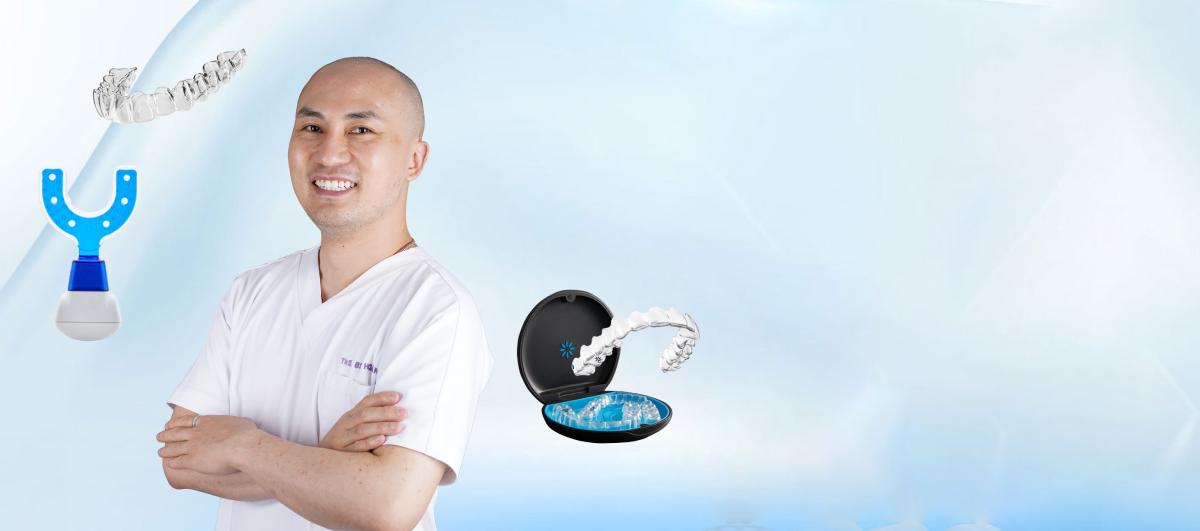
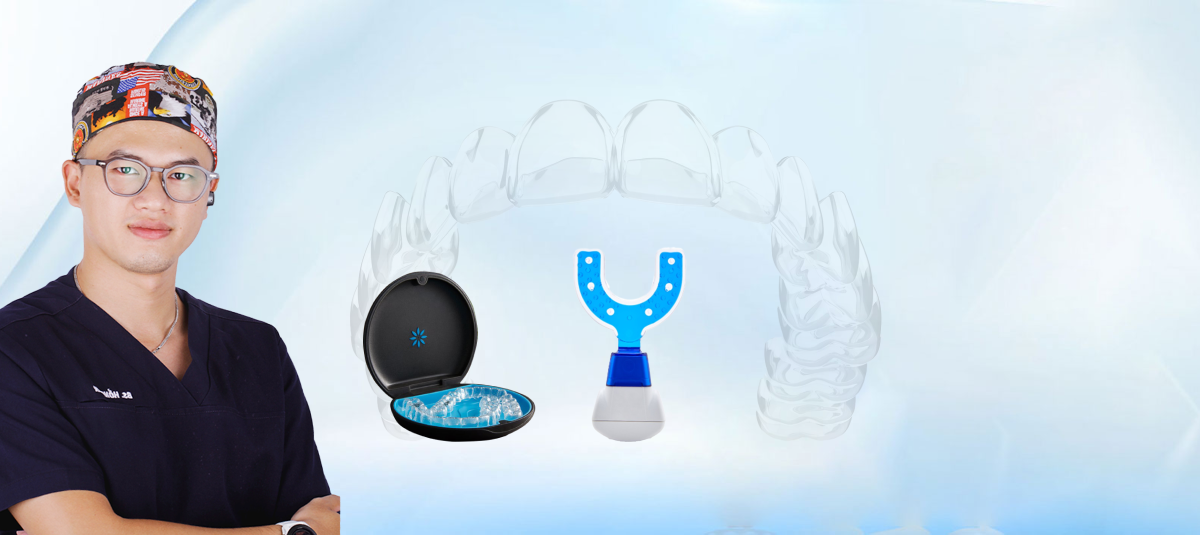
update

diff --git a/index.html b/index.html
@@ -18,13 +18,13 @@
 <link rel="icon" href="https://drphanhoanghai.vn/wp-content/uploads/2022/08/cropped-Screen-Shot-2022-08-24-at-13.47.05-192x192.png" sizes="192x192" />
 <link rel="apple-touch-icon" href="https://drphanhoanghai.vn/wp-content/uploads/2022/08/cropped-Screen-Shot-2022-08-24-at-13.47.05-180x180.png" />
 <meta name="msapplication-TileImage" content="https://drphanhoanghai.vn/wp-content/uploads/2022/08/cropped-Screen-Shot-2022-08-24-at-13.47.05-270x270.png" />
-    <title>Nha Khoa Phan Hoàng Hải - Bác sĩ Phan Hoàng Hải</title>
+    <title>Nha Khoa Nguyễn hồng Ân - Bác sĩ Nguyễn hồng Ân</title>
   </head>
   <body>
     <div class="section1 fullwidth-section">
       <div class="header-section">
         <div class="section1__logo">
-          <img src="assets/image/Logo.png" alt="" />
+          <img src="assets/image/PEGADENT white@4x 1.png" alt="" />
         </div>
         <div class="section1__infor">
           <div class="section1_infor_address">
@@ -181,7 +181,7 @@
     </div>
     <div class="section7 fullwidth-section">
       <div class="section">
-        <h2>bảng giá niềng răng tại nha khoa</h2>
+        <h2>bảng giá niềng răng cùng DR Nguyễn hồng ân</h2>
         <div class="section7__table">
           <table border="1px">
             <tr>
@@ -219,7 +219,7 @@
    
     <div class="section8 fullwidth-section">
       <div class="section">
-        <h2>Khi niềng răng cùng DR Phan Hoàng Hải</h2>
+        <h2>bảng giá niềng răng cùng DR Nguyễn hồng ân</h2>
         <p class="section8__towline"><span>bạn sẽ nhận được</span></p>
         <div style="text-align: center;"><img src="assets/image/union.svg" alt=""></div>
         <div class=" section8_4icon">
@@ -425,7 +425,7 @@
         </div>
         <div class="width50 " id="contact-form">
           <h2>CHỌN Niềng răng</h2>
-          <h2>CHỌN dr. phan hoàng hải</h2>
+          <h2>CHỌN dr. Nguyễn hồng Ân</h2>
           <form >
             <input type="text">
             <input type="text">
@@ -489,7 +489,7 @@
             CHỌN Niềng răng
           </h2>
           <h2>
-            CHỌN dr. phan hoàng hải
+            CHỌN dr. Nguyễn hồng Ân
           </h2>
           <div class="countdown-container">
             <div class="countdown-item">
@@ -550,7 +550,7 @@
         </div>
       </div>
       <div class="footer-bottom">
-        <p>© 2021 - Bản quyền của Dr. Phan Hoàng hải</p>
+        <p>© 2021 - Bản quyền của Dr. Nguyễn hồng Ân</p>
       </div>
     </footer>
   

diff --git a/assets/style/myStyle.css b/assets/style/myStyle.css
@@ -404,13 +404,14 @@ width: 100%;
   text-transform: uppercase;
 } */
 .section15 {
-  padding: 80px 0;
   background-image: url(/assets/image/Group\ 481857.png);
-  background-size: cover;
-  aspect-ratio: 3/1;
+  background-size: contain;
+  background-repeat: no-repeat;
+  aspect-ratio: 1200/535;
 }
 .section15 >.section {
   display: flex;
+  padding: 0;
 }
 .section15__form {
   display: flex;
